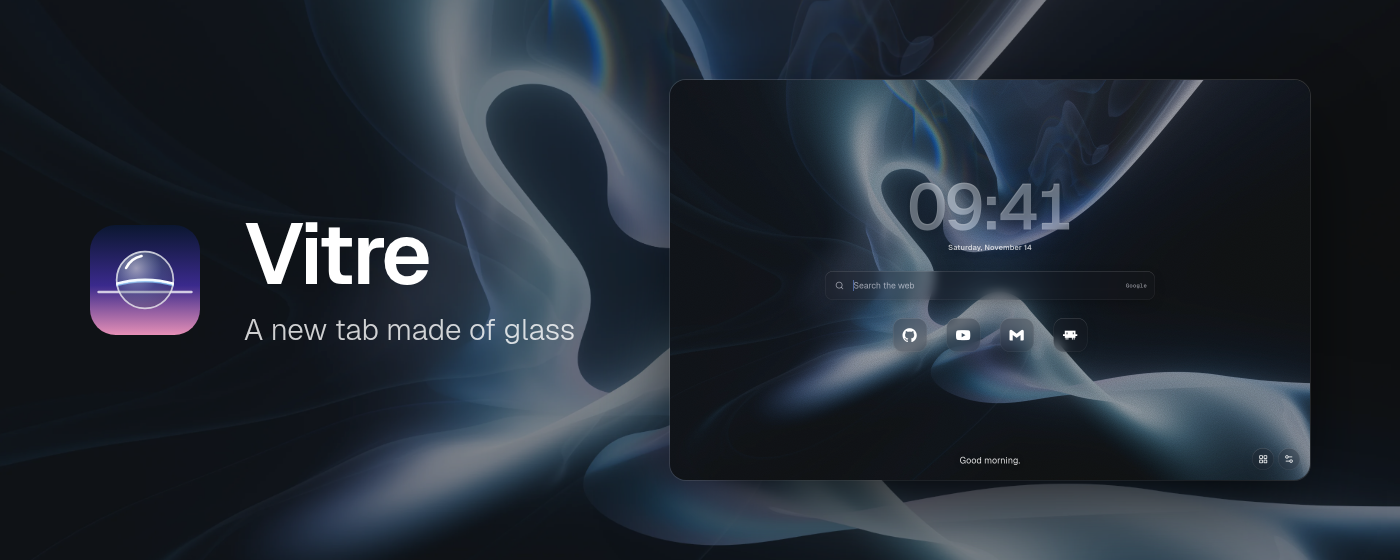
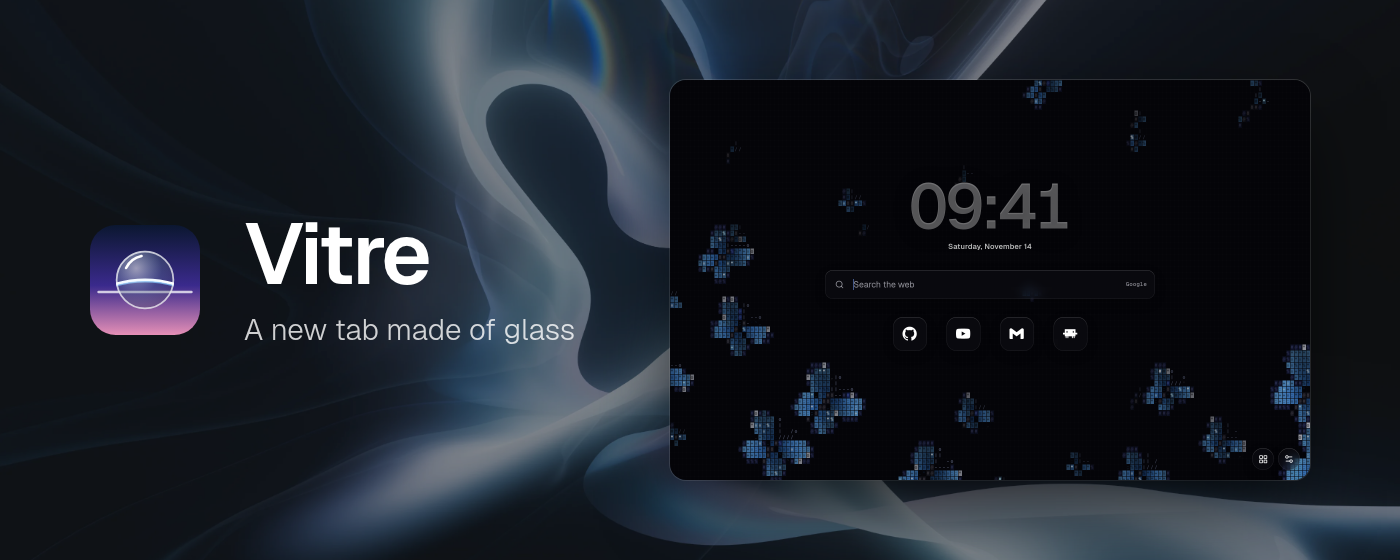
docs: store screenshots and README feature the ASCII animals

diff --git a/README.md b/README.md
@@ -27,25 +27,29 @@ No feeds. No news. No account. No server. Just yours.
 
 ## Glass, everywhere
 
-<img src="store/screenshot-2-glass.png" alt="Glass settings" width="100%">
+<img src="store/screenshot-3-glass.png" alt="Glass settings" width="100%">
 
 Every surface is real frosted glass: the search bar, your tabs, the panels, even the clock's digits, cut out of the glass itself. Frost, tint, saturation, rim light and roundness move live as you drag. It's plain CSS with nothing computed per frame, so it stays fast.
 
 ## Your sites, your icons
 
-<img src="store/screenshot-3-tabs.png" alt="Brand icon search" width="100%">
+<img src="store/screenshot-4-tabs.png" alt="Brand icon search" width="100%">
 
 Favourite tabs as glass buttons, in as many columns as you like, labels on or off. Give each one its site's icon, a letter, any of **3,500 brand marks** (YouTube, Netflix, GitHub, Spotify…) or **1,600 icons**, all searchable. The list has its own panel: drag to reorder, and a new tab names itself after its site.
 
 ## Your pictures, or a living gradient
 
-<img src="store/screenshot-4-shader.png" alt="Shader background" width="100%">
+<img src="store/screenshot-5-shader.png" alt="Shader background" width="100%">
 
-Drop in your own pictures: they're cached in the browser, so a new tab opens instantly, even offline. Show a new one on every tab, every few hours, or always the same. Or pick a slow mesh gradient in one of nine palettes and tune its motion, vibrance and luminosity. Or let ASCII animals drift across it: butterflies, koi, jellyfish, dragonflies, frogs, cranes or crabs, each with five moods and every knob to fine-tune. Blur, dim and grain on top of any of them, with two grain styles and a size from fine to coarse.
+Drop in your own pictures: they're cached in the browser, so a new tab opens instantly, even offline. Show a new one on every tab, every few hours, or always the same. Or pick a slow mesh gradient in one of nine palettes and tune its motion, vibrance and luminosity. Blur, dim and grain on top of any of them, with two grain styles and a size from fine to coarse.
+
+## ASCII animals
+
+<img src="store/screenshot-2-animals.png" alt="ASCII animals and their fine-tune panel" width="100%">
+
+Or let ASCII animals drift behind the glass: butterflies, koi, jellyfish, dragonflies, frogs, cranes or crabs. Each comes with five moods (natural, calm, swarm, distant, vivid) and a fine-tune panel with every knob, saved per animal. Click anywhere to startle them. Built on [ascii-animals](src/ascii/README.md) (MIT).
 
 ## Choose how it arrives
-
-<img src="store/screenshot-5-motion.png" alt="Motion settings" width="100%">
 
 Eight reveals for the background (iris, grid, plasma, zoom out, wipe, blinds, fade, none) and seven entrances for the page, with the wait, duration and stagger you set. Every option has a live preview. A new tab opens on your last background's tone and waits until the picture is ready, so there's never a black flash. Reduced-motion settings are respected.
 

diff --git a/store/LISTING.md b/store/LISTING.md
@@ -57,7 +57,7 @@ Open source (MIT): https://github.com/TLacault/vitre
 | Field | File |
 |---|---|
 | Store icon (128×128) | `../public/icon-128.png` |
-| Screenshots (1280×800), in this order | `screenshot-1-home.png`, `screenshot-2-glass.png`, `screenshot-3-tabs.png`, `screenshot-4-shader.png`, `screenshot-5-motion.png` |
+| Screenshots (1280×800), in this order | `screenshot-1-home.png`, `screenshot-2-animals.png`, `screenshot-3-glass.png`, `screenshot-4-tabs.png`, `screenshot-5-shader.png` |
 | Small promo tile (440×280) | `promo-small-440x280.png` |
 | Marquee promo tile (1400×560) | `promo-marquee-1400x560.png` |
 
